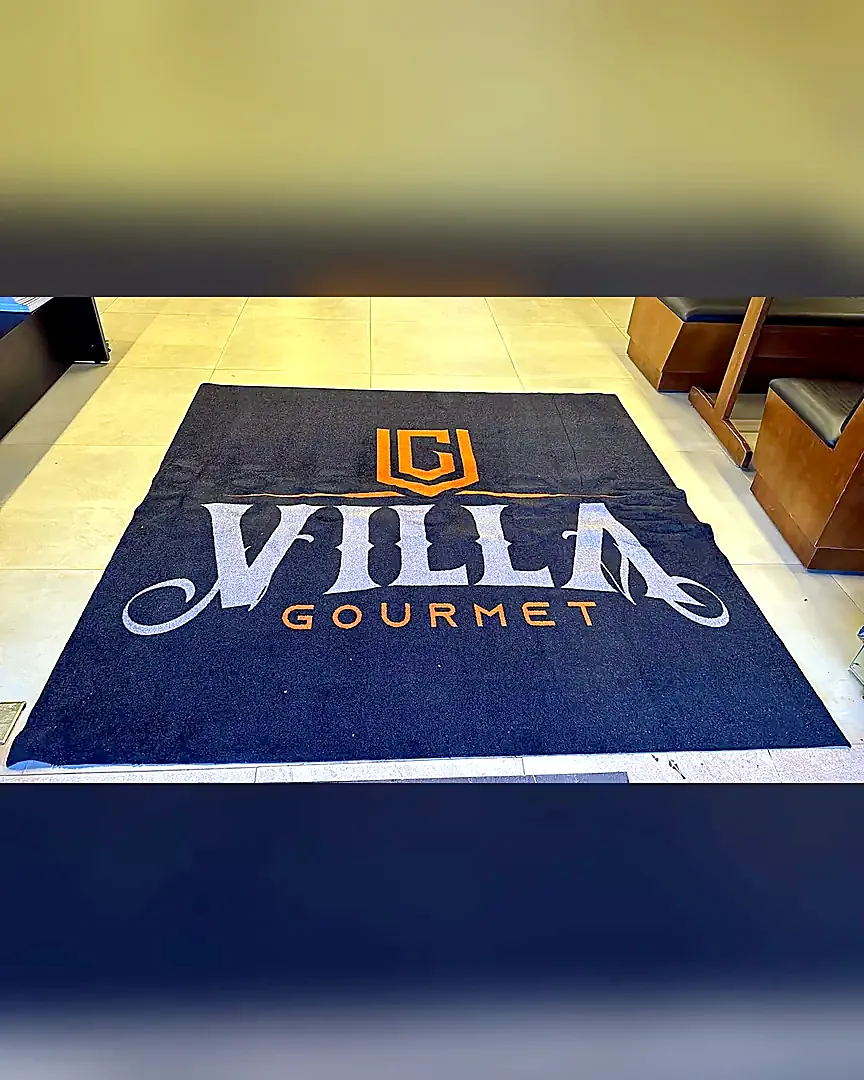
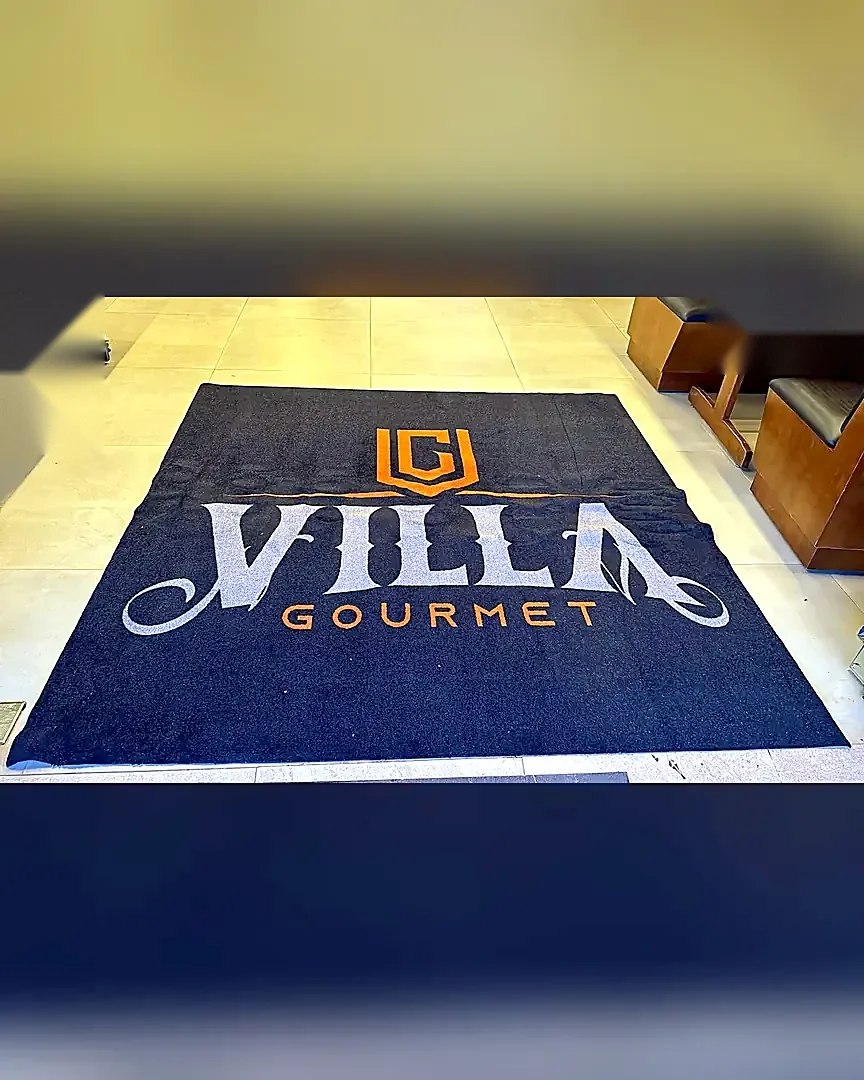
Piizu: limpeza de 28 fotos (barras, pés, objetos, fundos, sombra) e 6 fotos retiradas
Claude-Session: https://claude.ai/code/session_01UJAMx1QnLcDNdKvd1fRQ71

Changed region(s): [[0.0, 0.275, 0.125, 0.4278], [0.8125, 0.275, 1.0, 0.3667]]

diff --git a/public/piizu/index.html b/public/piizu/index.html
@@ -1989,7 +1989,6 @@ function piizuLead(extra){
 <div class="ph gal-it" data-setor="tapete"><img src="assets/img/galeria/portfolio-055.webp" alt="Tapete personalizado instalado em cliente pii-zü" width="864" height="1080" loading="lazy"></div>
 <div class="ph gal-it" data-setor="tapete"><img src="assets/img/galeria/portfolio-056.webp" alt="Tapete personalizado instalado em cliente pii-zü" width="864" height="1080" loading="lazy"></div>
 <div class="ph gal-it" data-setor="tapete"><img src="assets/img/galeria/portfolio-057.webp" alt="Tapete personalizado instalado em cliente pii-zü" width="864" height="1080" loading="lazy"></div>
-<div class="ph gal-it" data-setor="tapete"><img src="assets/img/galeria/portfolio-058.webp" alt="Tapete personalizado instalado em cliente pii-zü" width="864" height="1080" loading="lazy"></div>
 <div class="ph gal-it" data-setor="tapete"><img src="assets/img/galeria/portfolio-059.webp" alt="Tapete personalizado instalado em cliente pii-zü" width="864" height="1080" loading="lazy"></div>
 <div class="ph gal-it" data-setor="tapete"><img src="assets/img/galeria/portfolio-060.webp" alt="Tapete personalizado instalado em cliente pii-zü" width="864" height="1080" loading="lazy"></div>
 <div class="ph gal-it" data-setor="tapete"><img src="assets/img/galeria/portfolio-061.webp" alt="Tapete personalizado instalado em cliente pii-zü" width="864" height="1080" loading="lazy"></div>
@@ -2036,7 +2035,6 @@ function piizuLead(extra){
 <div class="ph gal-it" data-setor="tapete"><img src="assets/img/galeria/portfolio-102.webp" alt="Tapete personalizado instalado em cliente pii-zü" width="864" height="1080" loading="lazy"></div>
 <div class="ph gal-it" data-setor="tapete"><img src="assets/img/galeria/portfolio-103.webp" alt="Tapete personalizado instalado em cliente pii-zü" width="864" height="1080" loading="lazy"></div>
 <div class="ph gal-it" data-setor="tapete"><img src="assets/img/galeria/portfolio-104.webp" alt="Tapete personalizado instalado em cliente pii-zü" width="864" height="1080" loading="lazy"></div>
-<div class="ph gal-it" data-setor="tapete"><img src="assets/img/galeria/portfolio-105.webp" alt="Tapete personalizado instalado em cliente pii-zü" width="864" height="1080" loading="lazy"></div>
 <div class="ph gal-it" data-setor="tapete"><img src="assets/img/galeria/portfolio-106.webp" alt="Tapete personalizado instalado em cliente pii-zü" width="864" height="1080" loading="lazy"></div>
 <div class="ph gal-it" data-setor="piso-piscina"><img src="assets/img/galeria/portfolio-107.webp" alt="Detalhe do piso W-Kap antiderrapante para áreas molhadas" width="864" height="1080" loading="lazy"></div>
 <div class="ph gal-it" data-setor="piso-piscina"><img src="assets/img/galeria/portfolio-108.webp" alt="Detalhe do piso W-Kap antiderrapante para áreas molhadas" width="864" height="1080" loading="lazy"></div>
@@ -2060,7 +2058,6 @@ function piizuLead(extra){
 <div class="ph gal-it" data-setor="tapete"><img src="assets/img/galeria/portfolio-127.webp" alt="Tapete personalizado instalado em cliente pii-zü" width="864" height="1080" loading="lazy"></div>
 <div class="ph gal-it" data-setor="tapete"><img src="assets/img/galeria/portfolio-128.webp" alt="Tapete personalizado instalado em cliente pii-zü" width="864" height="1080" loading="lazy"></div>
 <div class="ph gal-it" data-setor="capa-elevador"><img src="assets/img/galeria/portfolio-129.webp" alt="Capa de proteção Liftkap instalada no elevador" width="864" height="1080" loading="lazy"></div>
-<div class="ph gal-it" data-setor="tapete"><img src="assets/img/galeria/portfolio-130.webp" alt="Tapete personalizado instalado em cliente pii-zü" width="864" height="1080" loading="lazy"></div>
 <div class="ph gal-it" data-setor="capa-elevador"><img src="assets/img/galeria/portfolio-131.webp" alt="Capa de proteção Liftkap instalada no elevador" width="864" height="1080" loading="lazy"></div>
 <div class="ph gal-it" data-setor="capa-elevador"><img src="assets/img/galeria/portfolio-132.webp" alt="Capa de proteção Liftkap instalada no elevador" width="864" height="1080" loading="lazy"></div>
 <div class="ph gal-it" data-setor="tapete"><img src="assets/img/galeria/portfolio-133.webp" alt="Tapete personalizado instalado em cliente pii-zü" width="864" height="1080" loading="lazy"></div>
@@ -2093,10 +2090,7 @@ function piizuLead(extra){
 <div class="ph gal-it" data-setor="tapete"><img src="assets/img/galeria/portfolio-160.webp" alt="Tapete personalizado instalado em cliente pii-zü" width="864" height="1080" loading="lazy"></div>
 <div class="ph gal-it" data-setor="tapete"><img src="assets/img/galeria/portfolio-161.webp" alt="Tapete personalizado instalado em cliente pii-zü" width="864" height="1080" loading="lazy"></div>
 <div class="ph gal-it" data-setor="tapete"><img src="assets/img/galeria/portfolio-162.webp" alt="Tapete personalizado instalado em cliente pii-zü" width="864" height="1080" loading="lazy"></div>
-<div class="ph gal-it" data-setor="tapete"><img src="assets/img/galeria/portfolio-163.webp" alt="Tapete personalizado instalado em cliente pii-zü" width="864" height="1080" loading="lazy"></div>
-<div class="ph gal-it" data-setor="tapete"><img src="assets/img/galeria/portfolio-164.webp" alt="Tapete personalizado instalado em cliente pii-zü" width="864" height="1080" loading="lazy"></div>
 <div class="ph gal-it" data-setor="tapete"><img src="assets/img/galeria/portfolio-165.webp" alt="Tapete personalizado instalado em cliente pii-zü" width="864" height="1080" loading="lazy"></div>
-<div class="ph gal-it" data-setor="tapete"><img src="assets/img/galeria/portfolio-166.webp" alt="Tapete personalizado instalado em cliente pii-zü" width="864" height="1080" loading="lazy"></div>
 <div class="ph gal-it" data-setor="piso-rubberkap"><img src="assets/img/galeria/portfolio-167.webp" alt="Piso emborrachado azul em playground coberto" width="864" height="1080" loading="lazy"></div>
 <div class="ph gal-it" data-setor="piso-rubberkap"><img src="assets/img/galeria/portfolio-168.webp" alt="Piso emborrachado azul sob os brinquedos do playground" width="864" height="1080" loading="lazy"></div>
 <div class="ph gal-it" data-setor="tapete"><img src="assets/img/galeria/portfolio-169.webp" alt="Tapete personalizado instalado em cliente pii-zü" width="864" height="1080" loading="lazy"></div>
